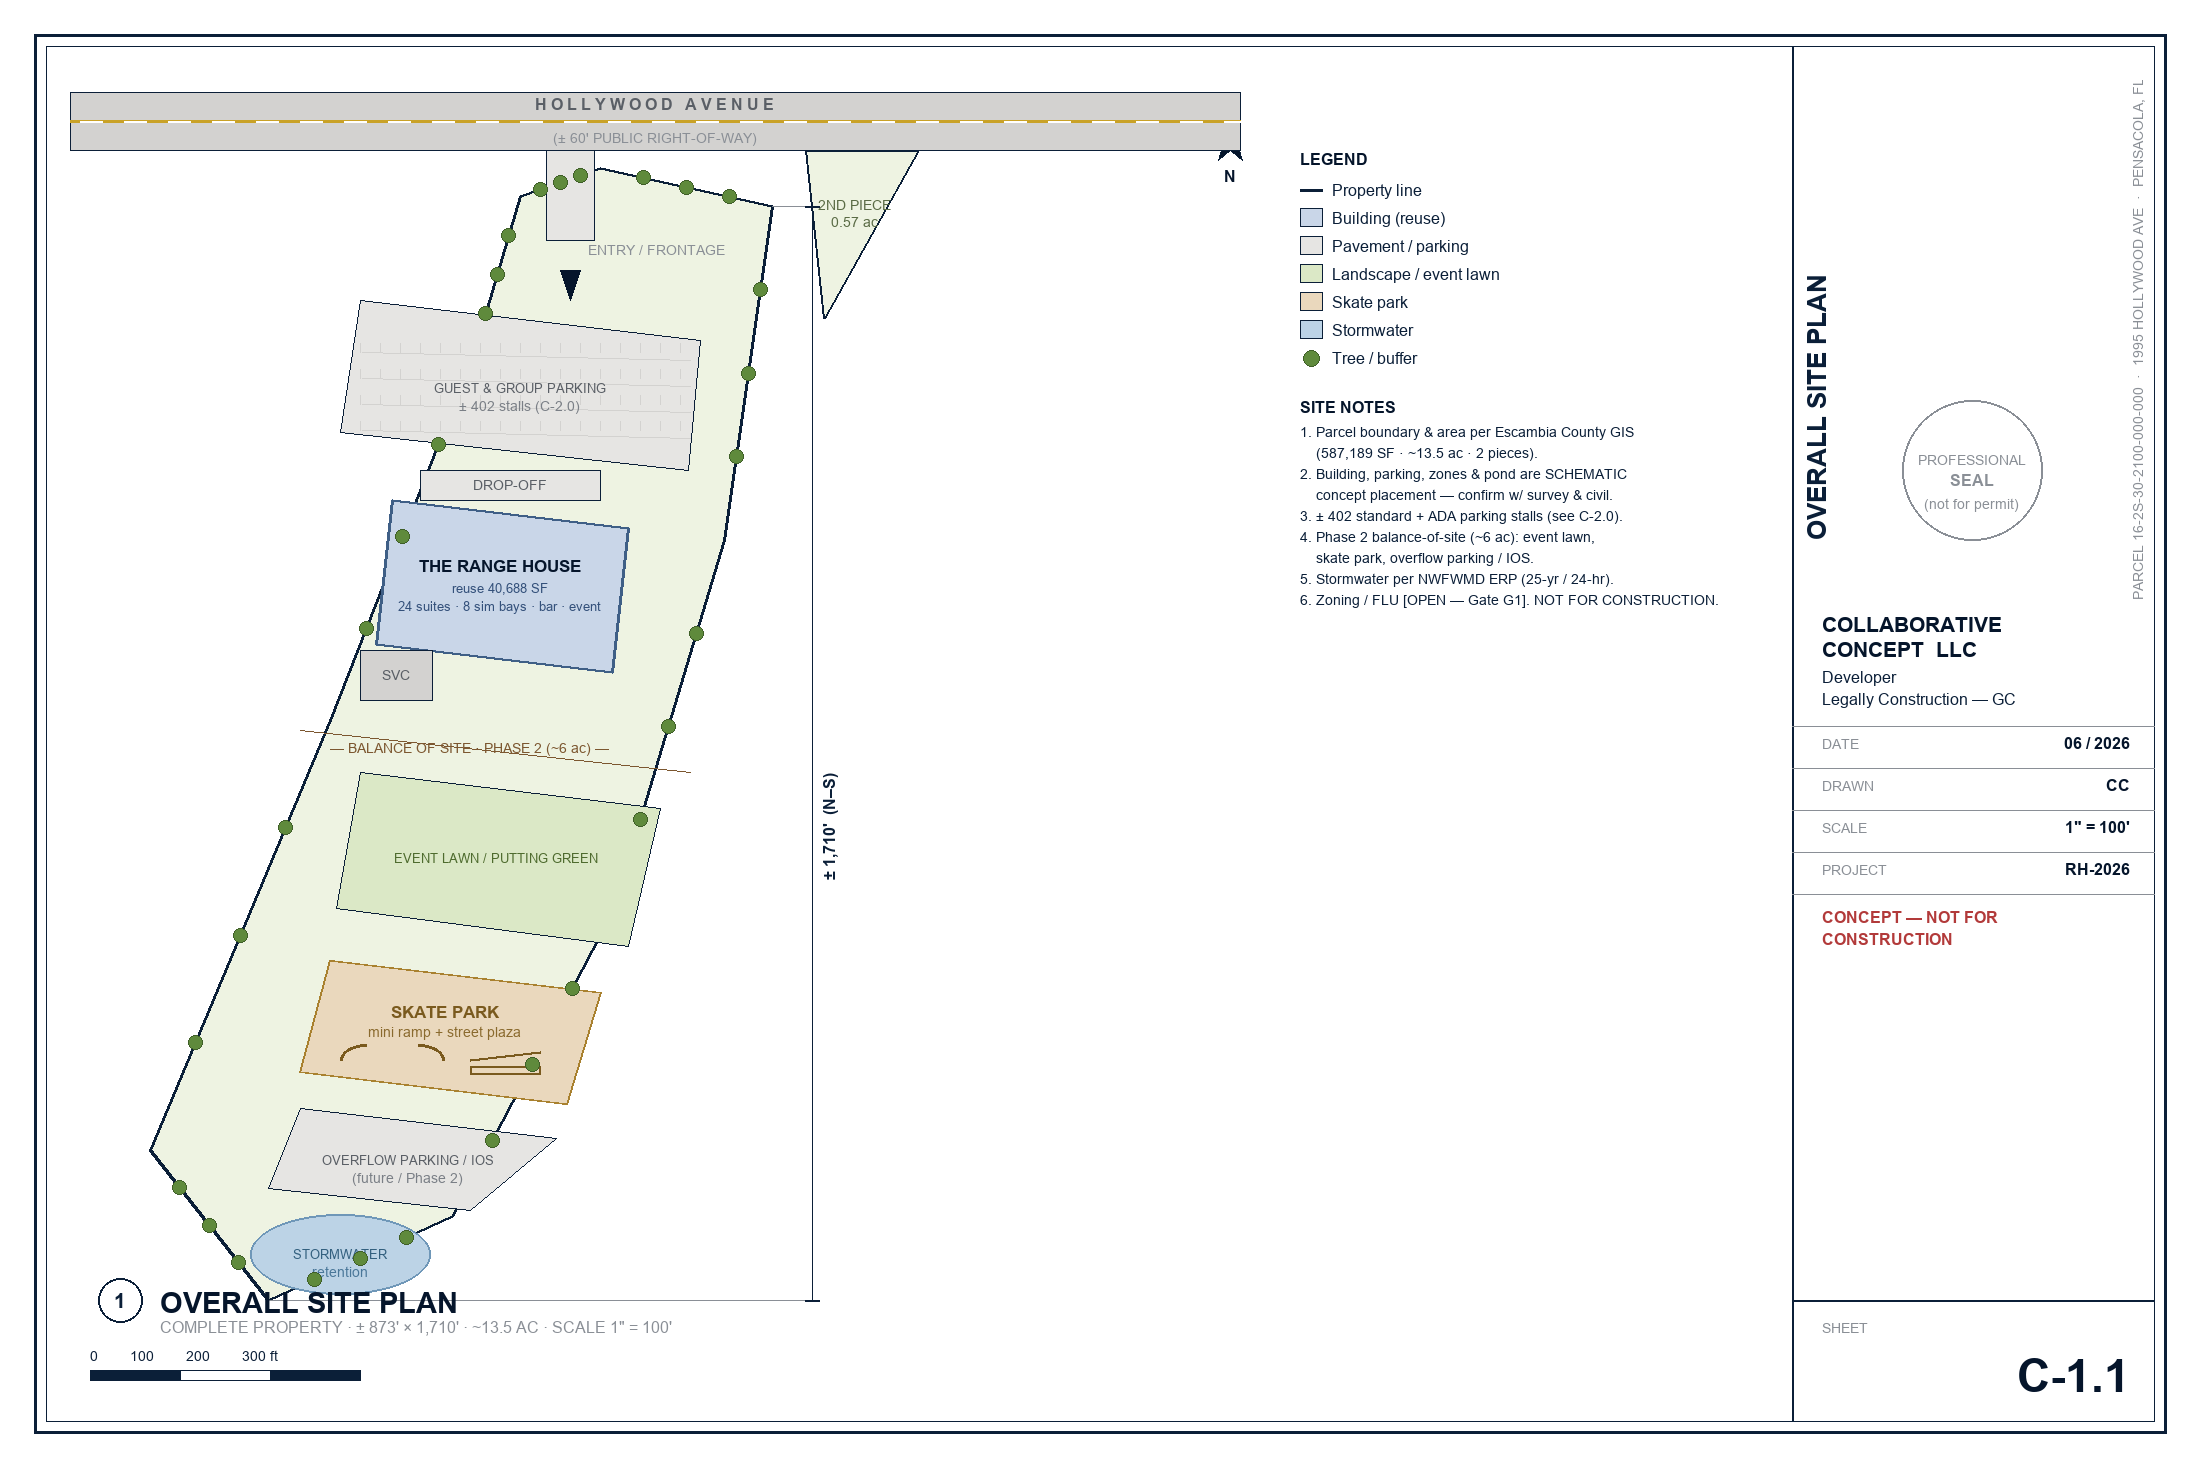
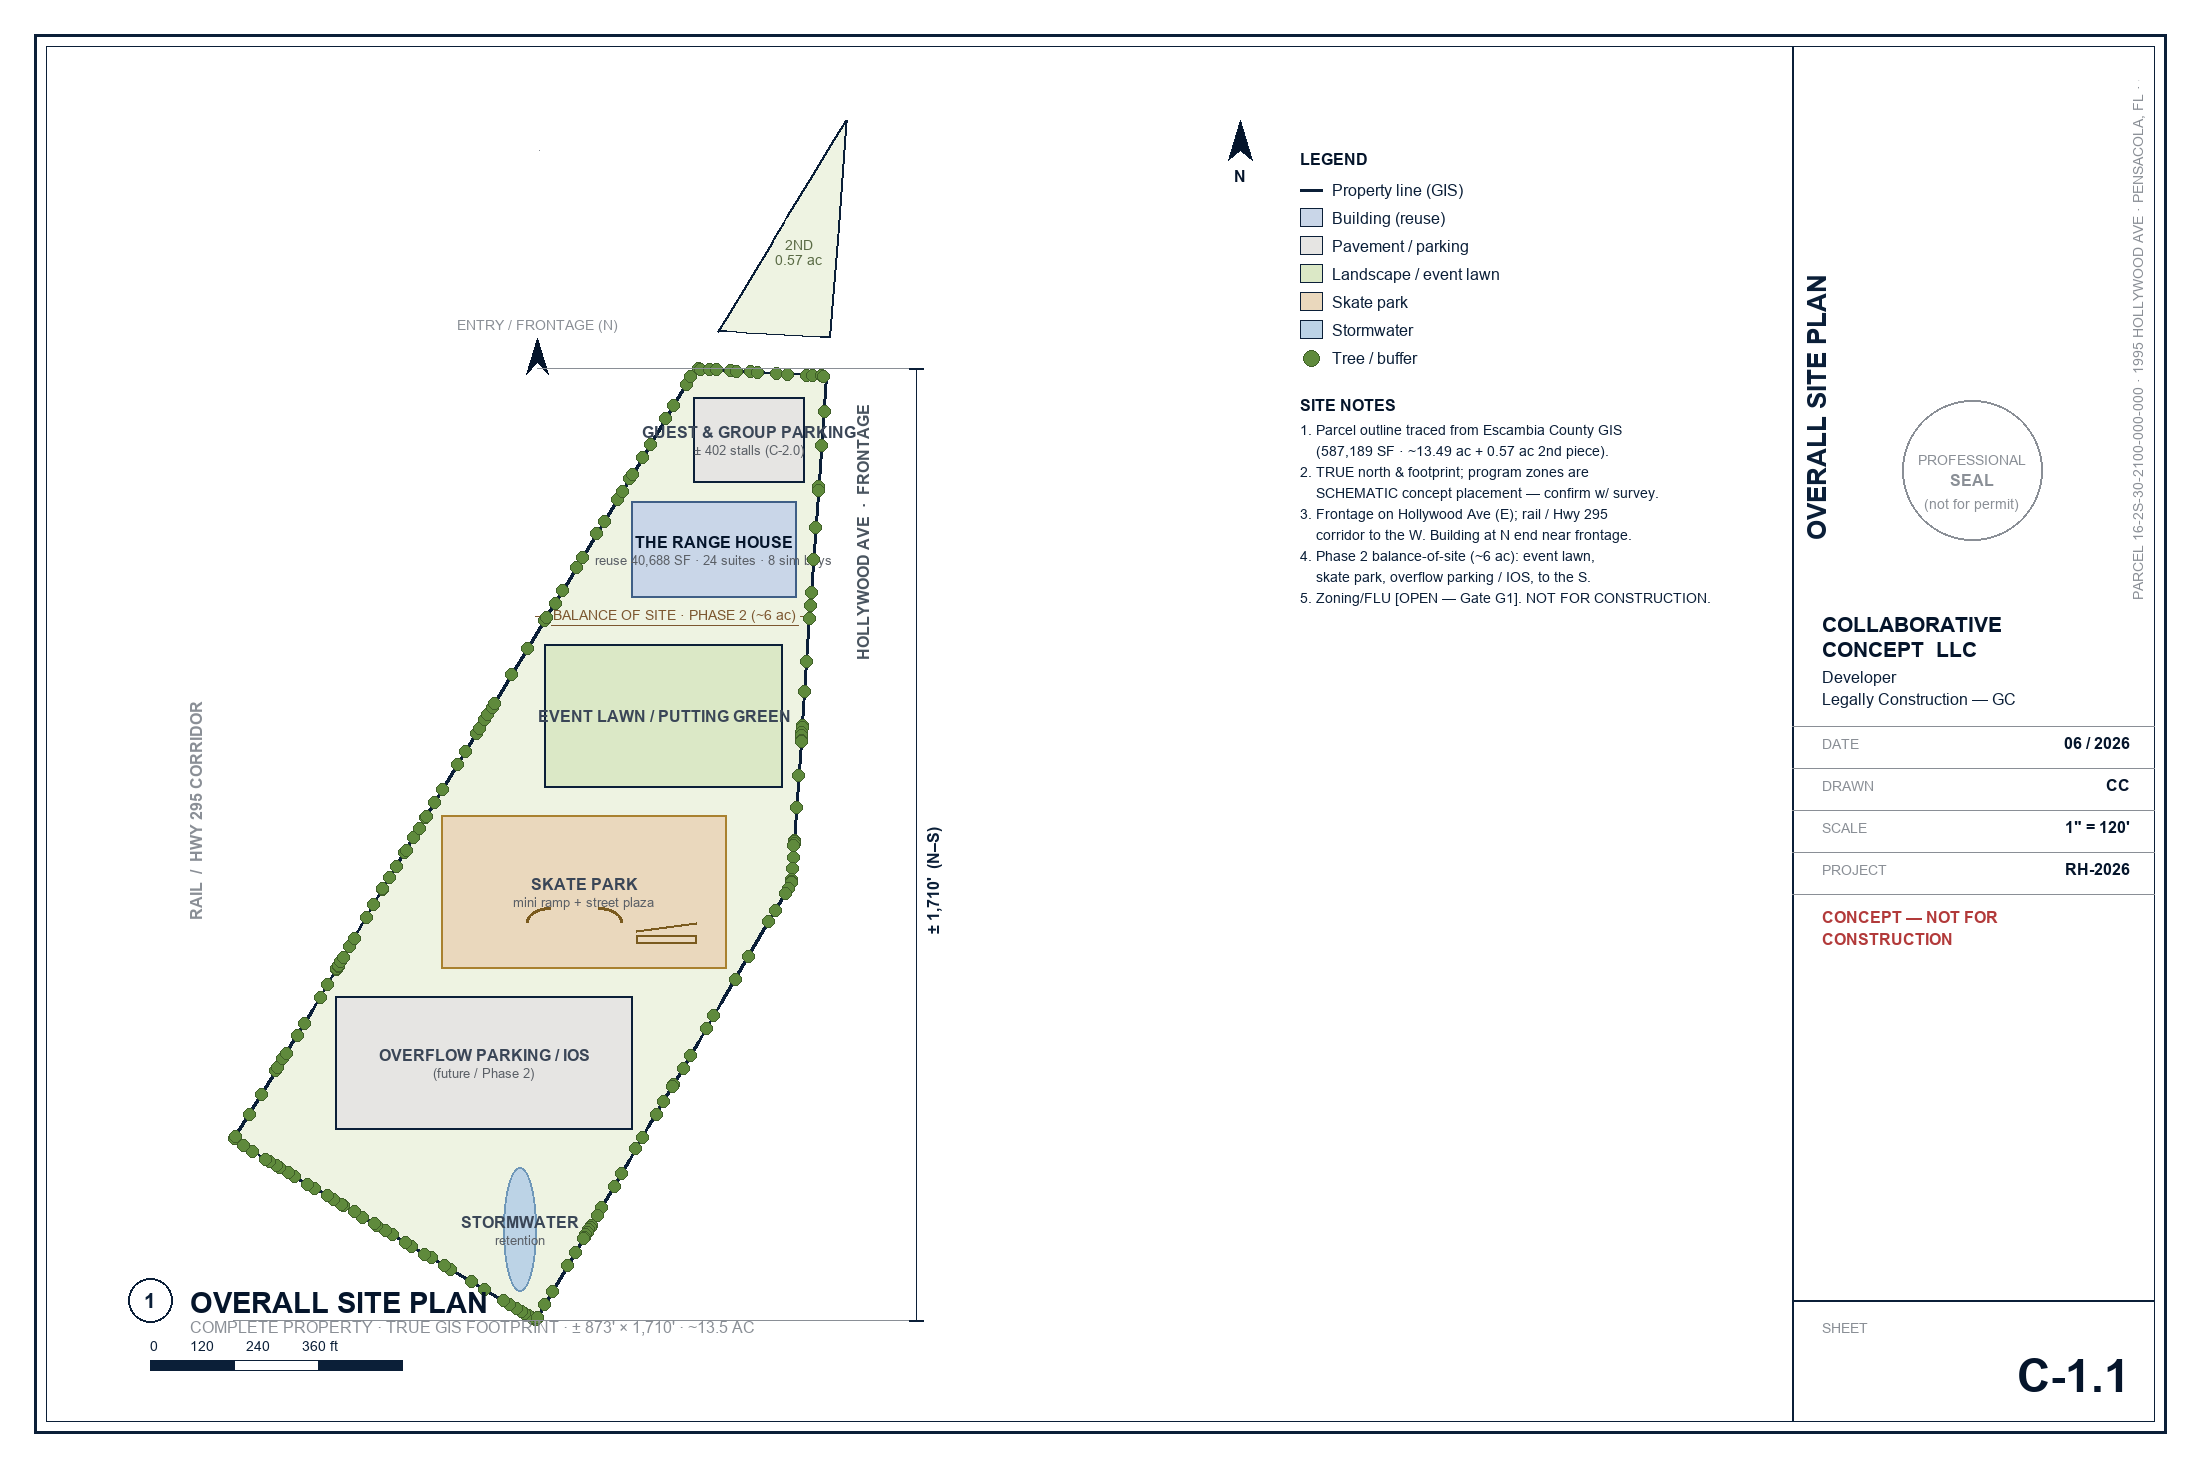
Range House: real aerial + boundary overlay, before/after, true-GIS C-1.1
- Real Esri satellite of the site with the Escambia GIS parcel boundary
  overlaid (assets/.../site/aerial-parcel.jpg) + building-zoom aerial.
- Before/after adaptive-reuse graphic: the site today (metal warehouse
  aerial) -> the Old Florida clubhouse concept (A-2.0). Added to
  "The Building" section.
- C-1.1 Overall Site Plan redrawn from the TRUE Escambia GIS parcel
  geometry (true north, Hollywood Ave E / rail-hwy W, building at N).
- Aerial · Parcel Boundary added to the Plans gallery.

Changed region(s): [[0.0309, 0.0613, 0.5873, 0.9509], [0.5873, 0.2761, 0.7727, 0.4294], [0.0618, 0.4908, 0.0927, 0.5215]]

diff --git a/projects/the-range-house.html b/projects/the-range-house.html
@@ -150,6 +150,10 @@
 <h2 class="text-3xl lg:text-4xl font-extrabold text-primary mt-3">A golf clubhouse with a Gulf Coast beach feel.</h2>
 <p class="text-on-surface-variant leading-relaxed mt-3">The Range House blends a Southern golf clubhouse with easy Gulf Coast beach style — deep verandahs and a cupola, white coastal materials and a metal roof, palms and water and greens all around. Real clubhouses and coastal-Florida buildings below — the design target for the adaptive-reuse skin, not the finished building.</p>
 </div>
+<figure class="rounded-2xl overflow-hidden border border-outline-variant/30 shadow-xl mb-8 bg-white">
+<img src="/assets/range-house/before-after.jpg" alt="Before and after — the existing metal warehouse today vs. the Old Florida clubhouse concept" loading="lazy" class="w-full"/>
+<figcaption class="px-5 py-3 text-sm font-semibold text-on-surface-variant">Adaptive reuse — the real site today (existing 40,688 SF metal warehouse) re-skinned into a Gulf Coast clubhouse (concept A-2.0).</figcaption>
+</figure>
 <figure class="rounded-2xl overflow-hidden border border-outline-variant/30 shadow-xl mb-4 bg-white">
 <img src="/assets/range-house/clubhouse/sea-pines-fairway.jpg" alt="Grand Low-Country golf clubhouse across the fairway and lake, framed by palms" loading="lazy" class="w-full h-72 sm:h-96 object-cover"/>
 <figcaption class="px-5 py-3 text-sm font-semibold text-on-surface-variant">A grand Low-Country golf clubhouse across the fairway — wrap-around porches, a cupola, palms and water. Golf-club presence with coastal ease.</figcaption>
@@ -378,6 +382,7 @@
 </div>
 <div class="grid grid-cols-1 sm:grid-cols-2 lg:grid-cols-3 gap-5">
 <figure class="bg-white rounded-xl overflow-hidden border border-outline-variant/30"><img src="/assets/range-house/overall-site-plan.png" alt="Overall Site Plan — complete property, all zones incl. skate park" class="w-full"/><figcaption class="px-4 py-3 text-sm font-semibold text-on-surface-variant">C-1.1 · Overall Site Plan <span class="text-secondary">(complete property)</span></figcaption></figure>
+<figure class="bg-white rounded-xl overflow-hidden border border-outline-variant/30"><img src="/assets/range-house/site/aerial-parcel.jpg" alt="Real aerial with the Escambia County GIS parcel boundary overlaid" class="w-full"/><figcaption class="px-4 py-3 text-sm font-semibold text-on-surface-variant">Aerial · Parcel Boundary <span class="text-secondary">(Escambia County GIS)</span></figcaption></figure>
 <figure class="bg-white rounded-xl overflow-hidden border border-outline-variant/30"><img src="/assets/range-house/site-plan.png" alt="Site Plan" class="w-full"/><figcaption class="px-4 py-3 text-sm font-semibold text-on-surface-variant">C-1.0 · Site Plan</figcaption></figure>
 <figure class="bg-white rounded-xl overflow-hidden border border-outline-variant/30"><img src="/assets/range-house/floor-plan.png" alt="Floor Plan" class="w-full"/><figcaption class="px-4 py-3 text-sm font-semibold text-on-surface-variant">A-1.0 · Floor Plan</figcaption></figure>
 <figure class="bg-white rounded-xl overflow-hidden border border-outline-variant/30"><img src="/assets/range-house/elevation.png?v=3" alt="Entry Elevation" class="w-full"/><figcaption class="px-4 py-3 text-sm font-semibold text-on-surface-variant">A-2.0 · Entry Elevation</figcaption></figure>
